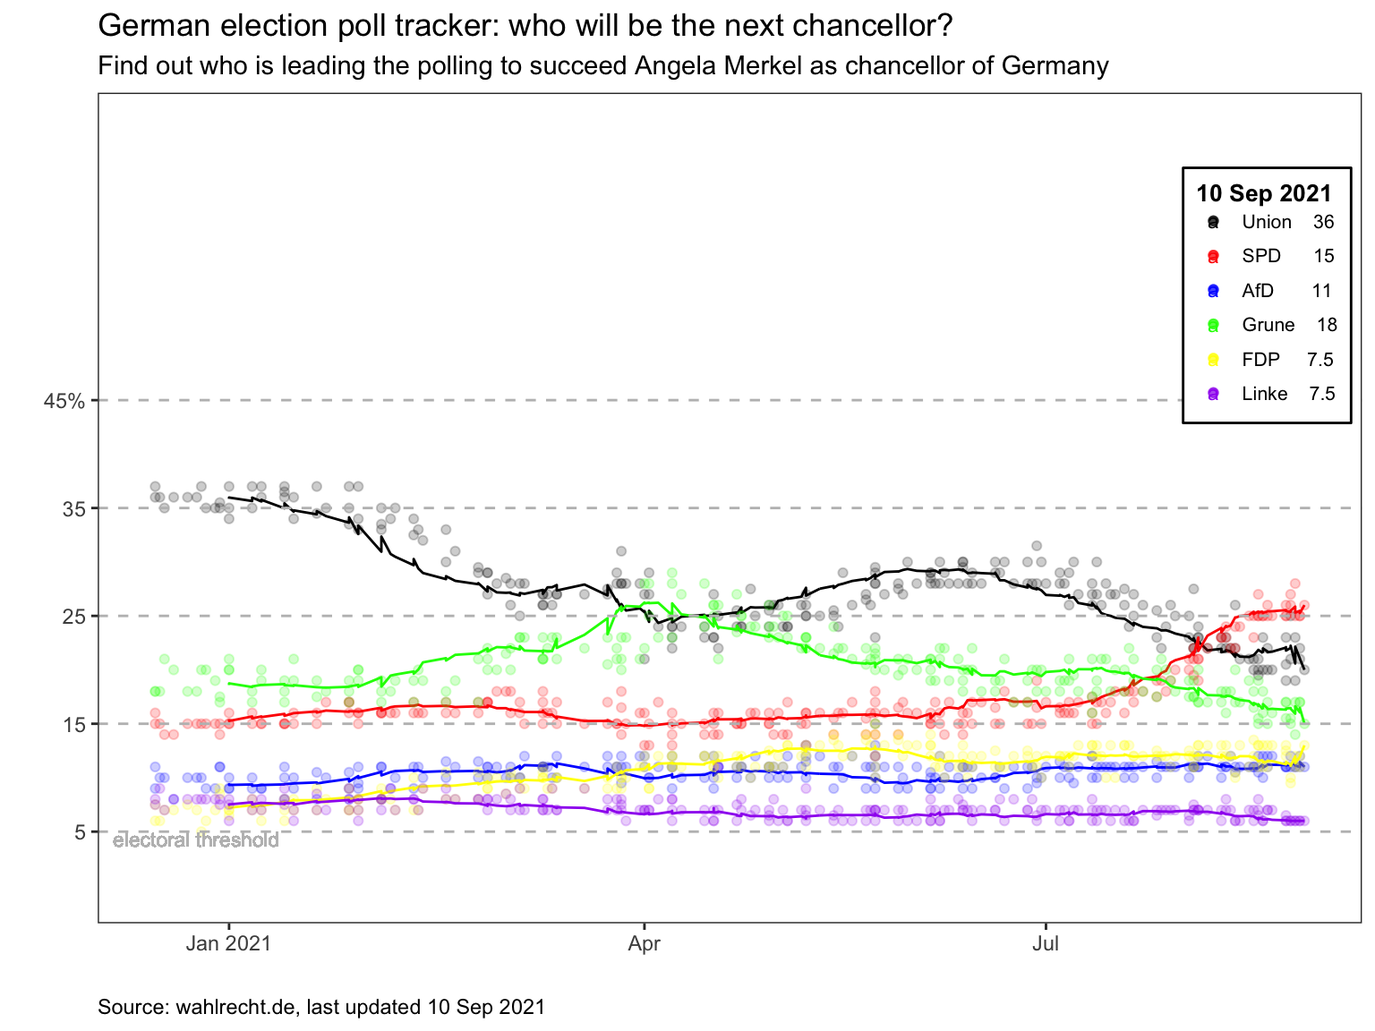
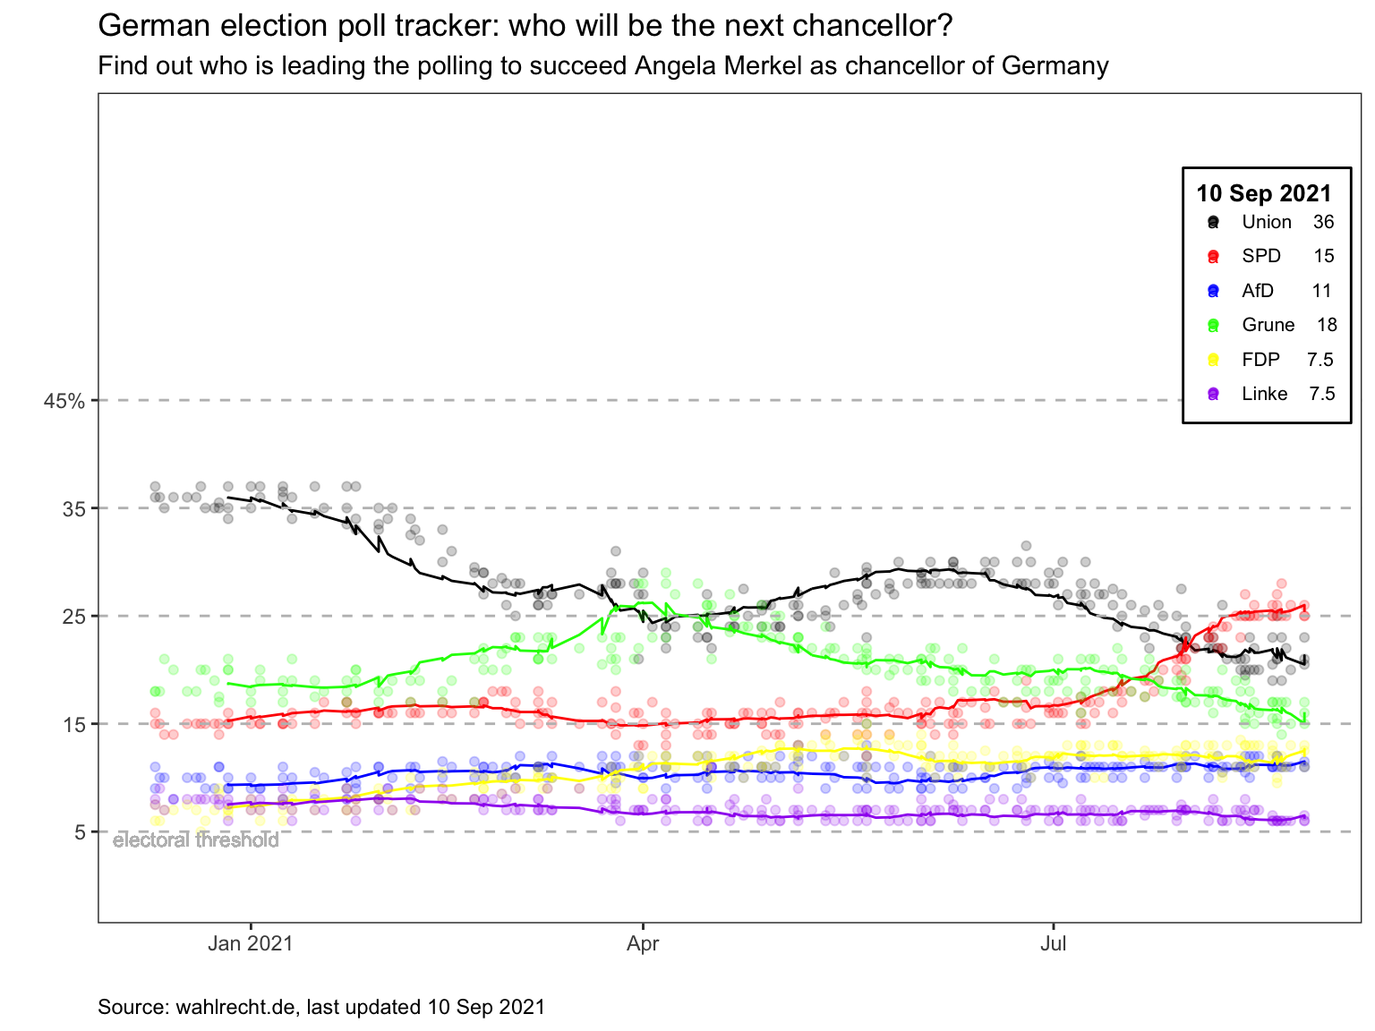
Change descriptions

Changed region(s): [[0.1562, 0.4688, 0.9688, 0.8125], [0.125, 0.9062, 0.2188, 0.9375], [0.75, 0.9062, 0.7812, 0.9375]]

diff --git a/content/blogs/German_Election.html b/content/blogs/German_Election.html
@@ -16,9 +16,11 @@ title: Germany election 2021 forecast
 
 <div id="calculate-2-week-moving-average-of-opinion-polls-for-the-2021-german-elections" class="section level1">
 <h1>Calculate 2-week moving average of opinion polls for the 2021 German elections</h1>
-<p>The Guardian newspaper has an <a href="https://www.theguardian.com/world/2021/aug/20/german-election-poll-tracker-who-will-be-the-next-chancellor">election poll tracker for the upcoming German election</a>. The list of the opinion polls since Jan 2021 can be found at <a href="https://en.wikipedia.org/wiki/Opinion_polling_for_the_2021_German_federal_election">Wikipedia</a>. Here we will reproduce the graph with the following code. As a referejce, please see the picture from <a href="https://www.theguardian.com/world/2021/aug/20/german-election-poll-tracker-who-will-be-the-next-chancellor">The Guardian</a> below that is replicated with the code. However, we choose to only plot the values for 2021. Essentially, we look at all voting polls from 2021 and calculate a 14-day moving average which we then plot. We do this to see the changes in voting forecasts leading up to the german federal election in September 2021.</p>
+<p>The Guardian newspaper has an <a href="https://www.theguardian.com/world/2021/aug/20/german-election-poll-tracker-who-will-be-the-next-chancellor">election poll tracker for the upcoming German election</a>. The list of the opinion polls since Jan 2021 can be found at <a href="https://en.wikipedia.org/wiki/Opinion_polling_for_the_2021_German_federal_election">Wikipedia</a>. Here we will reproduce the graph with the following code. As a reference, please see the picture from <a href="https://www.theguardian.com/world/2021/aug/20/german-election-poll-tracker-who-will-be-the-next-chancellor">The Guardian</a> below that is replicated with the code. However, we choose to only plot the values for 2021. Essentially, we look at all voting polls from 2021 and calculate a 14-day moving average which we then plot. We do this to see the changes in voting forecasts leading up to the German federal election in September 2021.</p>
 <p>Graph we will replicate:</p>
 <p><img src="/img/german_election.png" width="70%" style="display: block; margin: auto;" /></p>
+<div id="load-the-data" class="section level2">
+<h2>Load the data</h2>
 <p>First we load the data and adjust the date type to lubridate so that we can work with it.</p>
 <pre class="r"><code>url &lt;- &quot;https://en.wikipedia.org/wiki/Opinion_polling_for_the_2021_German_federal_election&quot;
 
@@ -53,7 +55,10 @@ german_election_polls &lt;- polls[[1]] %&gt;%
          # we also get the month and week number from the date, if we want to do analysis by month- week, etc.
          month = month(end_date),
          week = isoweek(end_date))</code></pre>
-<p>Then we create a dataframe with the columns of data we are actually interested in for the analysis. In addition we mutate the dataframe so that all infromation we need to create the graph is created. In specific, we calculate the 14-day moving average poll prediction for the individual parties.</p>
+</div>
+<div id="create-and-mutate-the-dataframe" class="section level2">
+<h2>Create and mutate the dataframe</h2>
+<p>Then we create a dataframe with the columns of data we are actually interested in for the analysis. In addition we mutate the dataframe so that all information we need to create the graph is available. For example, we take the sample size of every poll and multiply it with the voting fraction to get the total number of voters for a specific party by the respective poll. Then, in the next step, we can add up multiple polls by adding the voters across poll of a specific party and dividing it by total number of asked people for the sum of poll taken. This is important as we calculate the 14-day moving average poll prediction for the individual parties. We cannot simply average the percentages by parties reported by the dataset, but need to recaclulate given that the different polls had different sample sizes.</p>
 <pre class="r"><code>german_polls &lt;- german_election_polls %&gt;% 
   
   #Select parties data we need 
@@ -86,30 +91,30 @@ german_election_polls &lt;- polls[[1]] %&gt;%
          )
 
 glimpse(german_polls)</code></pre>
-<pre><code>## Rows: 226
+<pre><code>## Rows: 229
 ## Columns: 22
-## $ polling_firm &lt;chr&gt; &quot;INSA&quot;, &quot;Forschungsgruppe Wahlen&quot;, &quot;Kantar&quot;, &quot;Wahlkreispr…
-## $ end_date     &lt;date&gt; 2021-09-10, 2021-09-09, 2021-09-09, 2021-09-08, 2021-09-…
-## $ samplesize   &lt;dbl&gt; 1152, 1281, 1901, 1208, 10082, 1700, 1258, 2052, 1004, 25…
-## $ union        &lt;dbl&gt; 20.0, 22.0, 21.0, 19.0, 23.0, 21.0, 25.0, 20.5, 23.0, 19.…
-## $ spd          &lt;dbl&gt; 26, 25, 25, 28, 25, 26, 27, 26, 25, 25, 25, 25, 26, 25, 2…
-## $ af_d         &lt;dbl&gt; 11.0, 11.0, 12.0, 11.0, 11.0, 12.0, 11.0, 11.0, 11.0, 11.…
-## $ fdp          &lt;dbl&gt; 13.0, 11.0, 12.0, 12.0, 11.0, 10.0, 9.5, 12.5, 12.0, 13.0…
-## $ linke        &lt;dbl&gt; 6.0, 6.0, 6.0, 6.0, 6.0, 6.0, 6.0, 6.5, 6.0, 6.0, 7.0, 7.…
-## $ grune        &lt;dbl&gt; 15.0, 17.0, 17.0, 14.0, 17.0, 15.0, 15.5, 15.5, 17.0, 17.…
-## $ union_votes  &lt;dbl&gt; 230, 282, 399, 230, 2319, 357, 314, 421, 231, 476, 285, 2…
-## $ spd_votes    &lt;dbl&gt; 300, 320, 475, 338, 2520, 442, 340, 534, 251, 626, 357, 3…
-## $ af_d_votes   &lt;dbl&gt; 127, 141, 228, 133, 1109, 204, 138, 226, 110, 276, 171, 1…
-## $ fdp_votes    &lt;dbl&gt; 150, 141, 228, 145, 1109, 170, 120, 256, 120, 326, 186, 1…
-## $ linke_votes  &lt;dbl&gt; 69.1, 76.9, 114.1, 72.5, 604.9, 102.0, 75.5, 133.4, 60.2,…
-## $ grune_votes  &lt;dbl&gt; 173, 218, 323, 169, 1714, 255, 195, 318, 171, 426, 228, 2…
-## $ samplesizem  &lt;dbl&gt; 1152, 1216, 1445, 1386, 3125, 2887, 2655, 2579, 2404, 241…
-## $ unionm       &lt;dbl&gt; 20.0, 21.1, 21.0, 20.6, 22.1, 22.0, 22.2, 22.1, 22.1, 21.…
-## $ spdm         &lt;dbl&gt; 26.0, 25.5, 25.3, 25.9, 25.3, 25.4, 25.5, 25.5, 25.5, 25.…
-## $ af_dm        &lt;dbl&gt; 11.0, 11.0, 11.4, 11.3, 11.1, 11.2, 11.2, 11.2, 11.2, 11.…
-## $ fdpm         &lt;dbl&gt; 13.0, 11.9, 12.0, 12.0, 11.3, 11.2, 11.1, 11.2, 11.3, 11.…
-## $ linkem       &lt;dbl&gt; 6.00, 6.00, 6.00, 6.00, 6.00, 6.00, 6.00, 6.05, 6.05, 6.0…
-## $ grunem       &lt;dbl&gt; 15.0, 16.1, 16.5, 15.9, 16.6, 16.5, 16.4, 16.3, 16.3, 16.…</code></pre>
+## $ polling_firm &lt;chr&gt; &quot;INSA&quot;, &quot;GMS&quot;, &quot;Forsa&quot;, &quot;INSA&quot;, &quot;Forschungsgruppe Wahlen&quot;…
+## $ end_date     &lt;date&gt; 2021-09-13, 2021-09-13, 2021-09-13, 2021-09-10, 2021-09-…
+## $ samplesize   &lt;dbl&gt; 2062, 1003, 2501, 1152, 1281, 1901, 1208, 10082, 1700, 12…
+## $ union        &lt;dbl&gt; 20.5, 23.0, 21.0, 20.0, 22.0, 21.0, 19.0, 23.0, 21.0, 25.…
+## $ spd          &lt;dbl&gt; 26, 25, 25, 26, 25, 25, 28, 25, 26, 27, 26, 25, 25, 25, 2…
+## $ af_d         &lt;dbl&gt; 11.5, 11.0, 11.0, 11.0, 11.0, 12.0, 11.0, 11.0, 12.0, 11.…
+## $ fdp          &lt;dbl&gt; 12.5, 13.0, 11.0, 13.0, 11.0, 12.0, 12.0, 11.0, 10.0, 9.5…
+## $ linke        &lt;dbl&gt; 6.5, 6.0, 6.0, 6.0, 6.0, 6.0, 6.0, 6.0, 6.0, 6.0, 6.5, 6.…
+## $ grune        &lt;dbl&gt; 15.0, 16.0, 17.0, 15.0, 17.0, 17.0, 14.0, 17.0, 15.0, 15.…
+## $ union_votes  &lt;dbl&gt; 423, 231, 525, 230, 282, 399, 230, 2319, 357, 314, 421, 2…
+## $ spd_votes    &lt;dbl&gt; 536, 251, 625, 300, 320, 475, 338, 2520, 442, 340, 534, 2…
+## $ af_d_votes   &lt;dbl&gt; 237, 110, 275, 127, 141, 228, 133, 1109, 204, 138, 226, 1…
+## $ fdp_votes    &lt;dbl&gt; 258, 130, 275, 150, 141, 228, 145, 1109, 170, 120, 256, 1…
+## $ linke_votes  &lt;dbl&gt; 134.0, 60.2, 150.1, 69.1, 76.9, 114.1, 72.5, 604.9, 102.0…
+## $ grune_votes  &lt;dbl&gt; 309, 160, 425, 173, 218, 323, 169, 1714, 255, 195, 318, 1…
+## $ samplesizem  &lt;dbl&gt; 2062, 1532, 1855, 1680, 1600, 1650, 1587, 2649, 2543, 241…
+## $ unionm       &lt;dbl&gt; 20.5, 21.3, 21.2, 21.0, 21.1, 21.1, 20.9, 21.9, 21.8, 22.…
+## $ spdm         &lt;dbl&gt; 26.0, 25.7, 25.4, 25.5, 25.4, 25.3, 25.6, 25.3, 25.4, 25.…
+## $ af_dm        &lt;dbl&gt; 11.5, 11.3, 11.2, 11.2, 11.1, 11.3, 11.3, 11.1, 11.2, 11.…
+## $ fdpm         &lt;dbl&gt; 12.5, 12.7, 11.9, 12.1, 11.9, 11.9, 11.9, 11.5, 11.4, 11.…
+## $ linkem       &lt;dbl&gt; 6.50, 6.34, 6.19, 6.15, 6.13, 6.10, 6.09, 6.05, 6.05, 6.0…
+## $ grunem       &lt;dbl&gt; 15.0, 15.3, 16.1, 15.9, 16.1, 16.2, 16.0, 16.5, 16.4, 16.…</code></pre>
 <pre class="r"><code>#create legend numbers following each party
 union_rate &lt;- german_polls %&gt;% filter(end_date == end_date[length(end_date)]) %&gt;% select(union)
 spd_rate &lt;- german_polls %&gt;% filter(end_date == end_date[length(end_date)]) %&gt;% select(spd)
@@ -125,7 +130,11 @@ af_d_rate &lt;- paste(&quot;AfD      &quot;, af_d_rate[1,1])
 fdp_rate &lt;- paste(&quot;FDP    &quot;, fdp_rate[1,1])
 linke_rate &lt;- paste(&quot;Linke   &quot;, linke_rate[1,1])
 grune_rate &lt;- paste(&quot;Grune   &quot;, grune_rate[1,1])</code></pre>
-<p>Finally, we actually plot the graph using the mutated data frame from before. We ensure that the lines have the correct color depending on the party, adjust the axis and label the graph.</p>
+</div>
+<div id="create-the-final-graph" class="section level2">
+<h2>Create the final graph</h2>
+<p>Finally, we actually plot the graph using the mutated data frame from before. We want to plot the all poll individually with points. In addition, we add a line with the 14-day moving average across the different polls taken within that time period. The 14-day moving average essentially smoothens out some of the volatility and makes it easier to see trends across the different polls.</p>
+<p>We also ensure that the lines and points have the correct color depending on the party, adjust the axis to make it visually more appealing and label the graph appropriately.</p>
 <pre class="r"><code>#Create the table 
 german_polls %&gt;% 
   select(end_date, union, spd, af_d, fdp, linke, grune, unionm, spdm, af_dm, fdpm, linkem, grunem) %&gt;% 
@@ -187,5 +196,7 @@ german_polls %&gt;%
   x = &quot;&quot;,
   y = &quot;&quot;) + 
   NULL</code></pre>
-<p><img src="/blogs/German_Election_files/figure-html/create%20Pgrah%20german%20polls,%20-1.png" width="80%" style="display: block; margin: auto;" /></p>
+<p><img src="/blogs/German_Election_files/figure-html/create%20Pgrah%20german%20polls,%20-1.png" width="80%" style="display: block; margin: auto;" />
+We can see that at the beginning of 2021, the Union (also known as CDU), was by far the most popular party across the polls. However, with time, their poll rates decreased significantly. The SPD, led by Chancellor candidate Olaf Scholz, however, experienced an opposite trend. Especially from July to August, SPD gained significant share of the polls, which is an indication for popularity. Hence, as of the beginning of September, is not yet visible who will succeed Angela Merkel as the Chancellor of Germany.</p>
+</div>
 </div>

diff --git a/content/blogs/Biden_popularity.html b/content/blogs/Biden_popularity.html
@@ -16,10 +16,10 @@ title: Popularity of President Biden over time
 
 <div id="analysis-of-president-bidens-popularity-over-time" class="section level1">
 <h1>Analysis of President Biden’s popularity over time</h1>
-<p>In this section, we will visualize President Biden’s approval rate since his first day in office at the beginning of 2021. We do this to analysis how his popularity has changed over time of his inaguration. We will load the data from <a href="https://projects.fivethirtyeight.com/biden-approval-ratings">fivethirtyeight.com</a> as it has detailed data on all polls that track the president’s approval.</p>
+<p>In this section, we will visualize President Biden’s approval rate since his first day in office at the beginning of 2021. We do this to analysis how his popularity has changed over time of his inauguration. We will load the data from <a href="https://projects.fivethirtyeight.com/biden-approval-ratings">fivethirtyeight.com</a> as it has detailed data on all polls that track the president’s approval.</p>
 <div id="load-the-data" class="section level2">
 <h2>Load the data</h2>
-<p>Fist we load the data and change the date type to lubridate.</p>
+<p>Fist we load the data and change the date type to lubridate to facilitate working with the dates.</p>
 <pre class="r"><code># Import approval polls data directly off fivethirtyeight website
 approval_pollist &lt;- read_csv(&#39;https://projects.fivethirtyeight.com/biden-approval-data/approval_polllist.csv&#39;) </code></pre>
 <pre><code>## Rows: 1597 Columns: 22</code></pre>
@@ -63,9 +63,11 @@ approval_pollist &lt;- approval_pollist %&gt;%
           enddate = lubridate::mdy(enddate), 
           createddate = lubridate::mdy(createddate))</code></pre>
 </div>
-<div id="create-a-plot" class="section level2">
-<h2>Create a plot</h2>
-<p>We calculate the average net approval rate (approve- disapprove) for each week since President Biden got into office. Then we plot the net approval, along with its 95% confidence interval. We use the ‘enddate’ as date and facet by the subgroup to see the difference between adults, voters and all polls.</p>
+<div id="create-a-new-data-frame" class="section level2">
+<h2>Create a new data frame</h2>
+<p>We calculate the average net approval rate (approve - disapprove) for each week since President Biden got into office. Then we plot the net approval, along with its 95% confidence interval. We use the ‘enddate’ as date and facet by the subgroup to see the difference between adults, voters and all polls.</p>
+<p>The net approval rate allows us to get a feeling of how popular Biden and his policy is within the US. For different polls, the percentage of people that state they <em>approve</em> and the percentage of people that <em>disapprove</em> for the given statements is calculated. We “net” these rates and then calculate the weekly mean across the pools taken within the respective week. In addition, we calculate a 95% confidence interval for the net approval rate using the formula <strong>CI: mean +/- (t-critical * SE)</strong>.</p>
+<p>We use <code>glimpse()</code> to look at the new data frame we created.</p>
 <pre class="r"><code># Create confidence levels
 approval_margins &lt;- approval_pollist %&gt;%
   
@@ -100,9 +102,13 @@ approval_margins &lt;- approval_pollist %&gt;%
 ## $ t_critical             &lt;dbl&gt; 2.306004, 2.131450, 2.306004, 2.160369, 2.07387…
 ## $ lower_ci               &lt;dbl&gt; 17.784883, 14.278146, 10.896579, 15.356098, 14.…
 ## $ upper_ci               &lt;dbl&gt; 20.56198, 18.33336, 19.01980, 18.98311, 17.5834…</code></pre>
+</div>
+<div id="create-the-graph" class="section level2">
+<h2>Create the graph</h2>
+<p>We essentially plot the mean net approval rate per week. We decide to filter the <code>subgroup=="Voters</code>. The single data points are plotted by points and connected with a line. In addition, we add a <code>geom_smooth()</code> line to show the trend. More over, we plot the confidence interval using the <code>geom_ribbon()</code> function and fill the area it in light grey to make if visually more appealing in the graph. With the help of <code>geom_hline()</code> we add a horizontal line at <code>x=0</code> which essentially shows the line at which approval rate would equal disapproval rate.</p>
 <pre class="r"><code>#Create the graph
 approval_margins %&gt;% 
-  #filter(subgroup == &quot;Voters&quot;) %&gt;%
+  filter(subgroup == &quot;Voters&quot;) %&gt;%
   ggplot(aes(x=week, y= mean_net_approval_rate)) +
   
   #Set colors 
@@ -141,11 +147,11 @@ approval_margins %&gt;%
 <pre><code>## Scale for &#39;y&#39; is already present. Adding another scale for &#39;y&#39;, which will
 ## replace the existing scale.</code></pre>
 <pre><code>## `geom_smooth()` using method = &#39;loess&#39; and formula &#39;y ~ x&#39;</code></pre>
-<p><img src="/blogs/Biden_popularity_files/figure-html/Bidens%20Approval%20Margins-1.png" width="768" style="display: block; margin: auto;" /></p>
+<p><img src="/blogs/Biden_popularity_files/figure-html/Bidens%20Approval%20Margins%20Graph-1.png" width="768" style="display: block; margin: auto;" /></p>
 </div>
 <div id="analysis" class="section level2">
 <h2>Analysis</h2>
-<p>Looking at the confidence interval, we can see that its size greatly differ between week 4 and week 25. One of the reasons for this is that the sample set size differs between week 4 and week 25. The sample size on week 4 is much smaller than that of week 25 which is why the standard error is relatively higher in week 4. This leads to larger confidence intervals in week 4 compared to week 25.
-As far as the data across the weeks is concerned, as sample size increases - confidence intervals shrink. The approval ratings for Joe Biden have reduced between week 4 and 25.</p>
+<p>Looking at the confidence interval, we can see that its size greatly differ between the different weeks. One of the reasons for this is that the sample set size differ. For example, the sample size of week 4 is much smaller than that of week 25 which is why the standard error is relatively higher in week 4. This leads to larger confidence intervals in week 4 compared to week 25.
+As far as the data across the weeks is concerned, the approval ratings for Joe Biden have decreases significantly over the weeks. While they started reasonably high, they have no gone into slight negative net approval. However, as the confidence interval shows, there is some uncertainty related to these polls as they are derived only from a small sample in comparison to the entire population.</p>
 </div>
 </div>

diff --git a/content/blogs/Introduction.html b/content/blogs/Introduction.html
@@ -16,7 +16,7 @@ title: About me
 
 <div id="introduction" class="section level2">
 <h2>Introduction</h2>
-<p>My name is Sophia and I grew up in <strong>Germany</strong>. This website was created to introduce myself and showcase some of the work I have done so far. On this page you can find a general introduction. On the other tabs you will be able to find some example analysis and visualizations I have been working on. In case you have any questions, feel free to get in touch over the contact details provided.</p>
+<p>My name is Sophia and I grew up in Germany. This website was created to introduce myself and showcase some of the work I have done so far. On this page you can find a general introduction. On the other tabs you will be able to find some example analysis and visualizations I have been working on. In case you have any questions, feel free to get in touch over the contact details provided.</p>
 </div>
 <div id="education" class="section level2">
 <h2>Education</h2>
@@ -29,7 +29,7 @@ title: About me
 <h3>University</h3>
 <div id="undergraduate-studies" class="section level4">
 <h4>Undergraduate studies</h4>
-<p>In September 2018 I started by Bachelor of Business Administration studies at the German university <a href="https://www.whu.edu/en/">WHU-Otto Beisheim School of Management</a>. Despite the Covid pandemic, I has able to complete an exchange semester in South Korea at <a href="https://www.yonsei.ac.kr/en_sc/index.jsp">Yonsei University</a>, which was an amazing and formative experience in the fall of 2020. I wrote by Bachelors thesis in the Spring of 2021 and officially graduated in September 2021.
+<p>In September 2018 I started by Bachelor of Business Administration studies at the German university <a href="https://www.whu.edu/en/">WHU-Otto Beisheim School of Management</a>. Despite the Covid pandemic, I has able to complete an exchange semester in South Korea at <a href="https://www.yonsei.ac.kr/en_sc/index.jsp">Yonsei University</a>, which was an amazing and formative experience in the fall of 2020. I wrote by Bachelor thesis in the Spring of 2021 and officially graduated in September 2021.
 During my studies, I joined the student initiative Enactus and Sensability - The WHU Impact Summit at WHU. Additionally, I worked as a student research assistant for the Institute of Management &amp; Control and conducted mathematics tutorials for younger semester students.</p>
 </div>
 <div id="graduate-studies" class="section level4">
@@ -37,6 +37,10 @@ During my studies, I joined the student initiative Enactus and Sensability - The
 <p>For my Masters studies, I decided to move abroad again. I am currently attending the Masters in Analytics and Management program of <a href="https://www.london.edu/">London Business School</a> and am expecting to graduate in the summer of 2022.</p>
 </div>
 </div>
+</div>
+<div id="professional-experiecne" class="section level2">
+<h2>Professional experiecne</h2>
+<p>Throughout my studies, I was able to complete different internships over the summer. I have gained insights into project management, financial services, manufacturing and consultancy. After my graduate studies, I hope to go into management and strategy consulting for a few years, mainly to gain more experience in different industries and topics, before further specializing in a given sector.</p>
 </div>
 <div id="hobbies" class="section level2">
 <h2>Hobbies</h2>
@@ -47,7 +51,7 @@ Now, however, I do not compete in tournaments anymore but rather play with famil
 </div>
 <div id="travelling" class="section level3">
 <h3>Travelling</h3>
-<p>Another thing I really like to do is travel and explore. Hiking trips, beach days or city tour, all are always valuable memories and definitely time well spend.</p>
+<p>Another thing I really like to do is travel and explore. Hiking trips, beach days or city tours, all are always valuable memories and definitely time well spend.</p>
 <p>My favorite trips so far have been:</p>
 <ul>
 <li>South Africa</li>

diff --git a/content/blogs/Brexit_election.html b/content/blogs/Brexit_election.html
@@ -16,12 +16,13 @@ title: Political affiliation and Brexit voting
 
 <div id="analysis-of-brexit-voting-results-broked-down-by-political-affiliation" class="section level2">
 <h2>Analysis of Brexit voting results broked down by political affiliation</h2>
-<p>Using data manipulation and visualization skills, we use the Brexit results data frame and produce a plot. With this graph we can analysis the relationship between political affiliation than tendency of voting in favor of leaving the EU.</p>
+<p>Using data manipulation and visualization skills, we use the Brexit results data to analyze the relationship between political affiliation and tendency of voting in favor of leaving the EU.</p>
 <p>The data comes from <a href="https://www.thecrosstab.com/">Elliott Morris</a>, who cleaned it and made it available through his <a href="https://www.datacamp.com/courses/analyzing-election-and-polling-data-in-r">DataCamp class on analysing election and polling data in R</a>.</p>
 <p>The main outcome variable (or y) is <code>leave_share</code>, which is the percent of votes cast in favour of Brexit, or leaving the EU. Each row is a UK <a href="https://en.wikipedia.org/wiki/United_Kingdom_Parliament_constituencies">parliament constituency</a>.</p>
 </div>
 <div id="load-the-data-and-skim-it" class="section level1">
 <h1>Load the data and skim it</h1>
+<p>First we load the data and explore it to get a feeling for the different variables.</p>
 <pre class="r"><code># Load data
 brexit &lt;- read_csv(here::here(&quot;data&quot;, &quot;brexit_results.csv&quot;))</code></pre>
 <pre><code>## Rows: 632 Columns: 11</code></pre>
@@ -269,6 +270,7 @@ glimpse(brexit)</code></pre>
 </div>
 <div id="crete-long-format-of-data-and-plot" class="section level1">
 <h1>Crete long format of data and plot</h1>
+<p>Next, we transform the data frame into the long format by assigning the party names to a new name <strong>Party</strong>. This makes it more efficient to plot the graph in the next step. We use <code>scale_color_manual()</code> to set the colors of the line and points to the official party colors. The official colors can be find using Google. We then adjust some remaining aesthetics of the graph such as changing the theme, setting the axis limits, and labeling the graph.</p>
 <pre class="r"><code># Change to long format
 brexit_long &lt;- brexit %&gt;%  
   pivot_longer(cols=c(&#39;con_2015&#39;, &#39;lab_2015&#39;, &#39;ld_2015&#39;, &#39;ukip_2015&#39;), names_to= &quot;Party&quot;, 
@@ -306,4 +308,5 @@ ggplot(data=brexit_long, aes(x=Party_share, y=leave_share, group=Party, colour=P
 ## replace the existing scale.</code></pre>
 <pre><code>## `geom_smooth()` using formula &#39;y ~ x&#39;</code></pre>
 <p><img src="/blogs/Brexit_election_files/figure-html/brexit%20graph%202-1.png" width="960" /></p>
+<p>Looking at the graph, it is easy to see that the different political parties have different relationships with the percentage of leave voting in the Brexit referendum. For example, the percentage of <em>UKIP</em> in the general election appears to have a much stronger positive relationship, while percentage of <em>Lib Dems</em> in the general election appears to have a slight negative relationship to the percentage of leave voting. Hence, political party affiliation seems to be a valid indicator of likelihood to vote in favor of Brexit.</p>
 </div>
